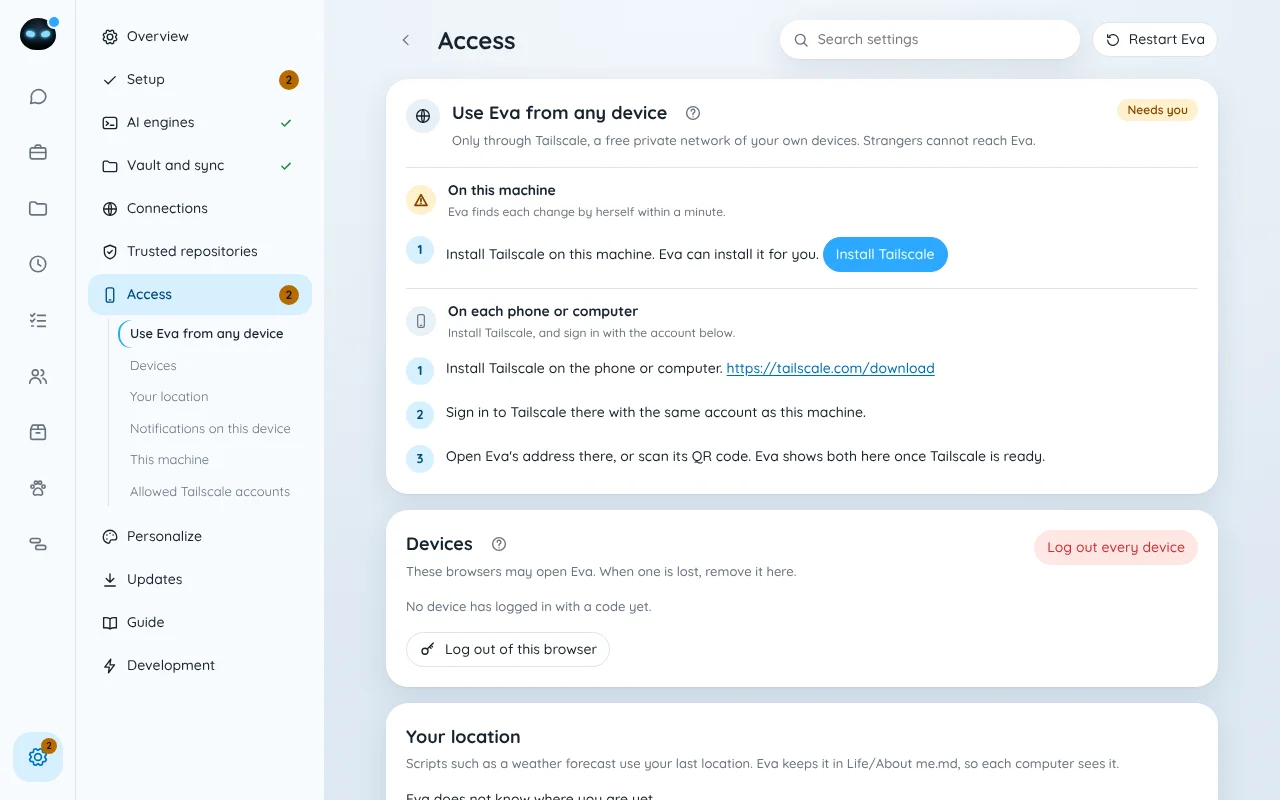
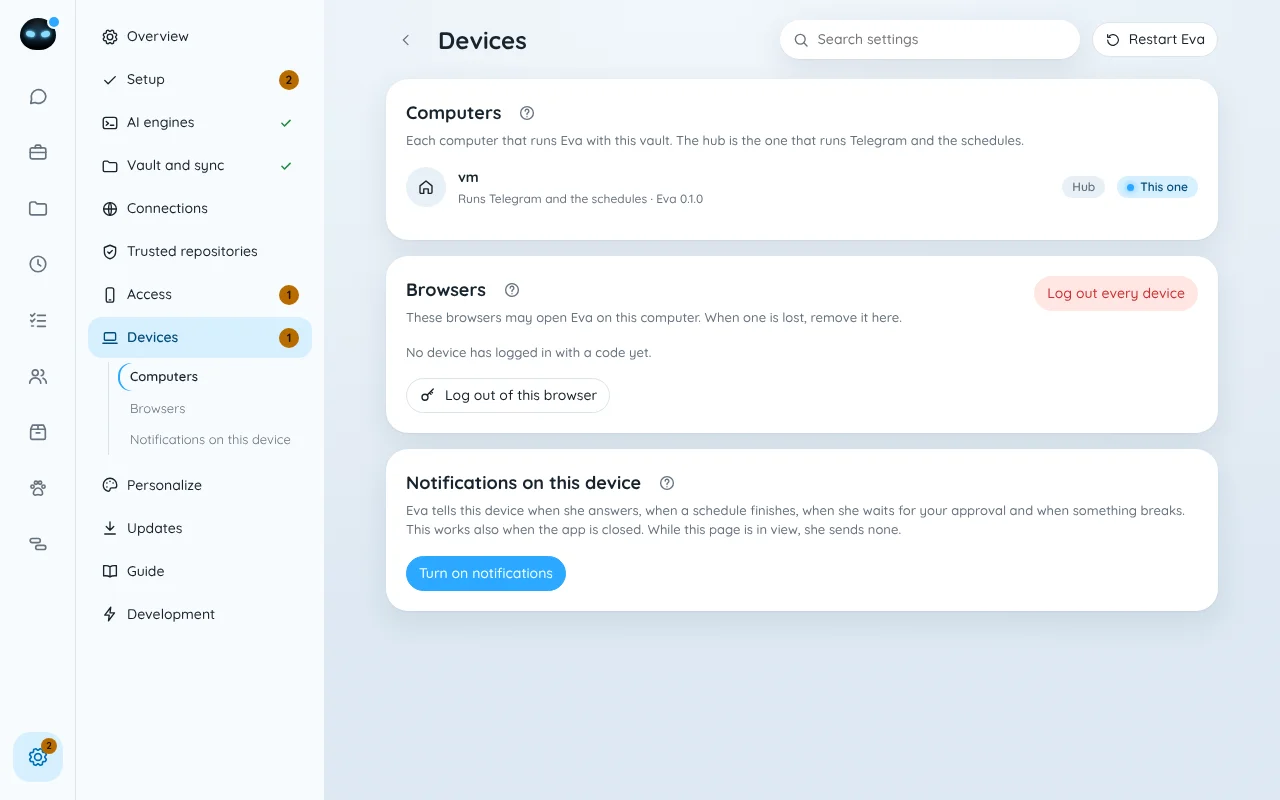
docs(design): capture the Devices page, and fix what This one marks (#925)
Claude-Session: https://claude.ai/code/session_011YsmyfvAnrQ2jecrSfGwHM

diff --git a/scripts/capture-design.ts b/scripts/capture-design.ts
@@ -294,7 +294,7 @@ const scenes: readonly Scene[] = [
   { name: "pets", show: (page) => openAddress(page, "#/pets", "Pets") },
   { name: "periods", show: (page) => openAddress(page, "#/periods", "Periods") },
   { name: "settings", show: (page) => openAddress(page, "#/settings", "Settings") },
-  { name: "devices", show: (page) => openAddress(page, "#/settings/access", "Access") },
+  { name: "devices", show: (page) => openAddress(page, "#/settings/devices", "Devices") },
   {
     name: "problems",
     show: async (page, _view, demo) => {

diff --git a/docs/guide/reference.md b/docs/guide/reference.md
@@ -127,7 +127,7 @@ Eva works on several computers with one vault, with no role to set.
 
 - **The hub** is the one computer that runs the Telegram bot and the reminders. The first computer that starts with the vault becomes the hub. The vault names it in `.eva/hub.json`.
 - **A satellite** is any other computer with the vault. It keeps the vault up to date and serves its own terminal and web page, but stays quiet in Telegram.
-- **See every computer** in **Settings > Devices > Computers**. The list comes from the vault, so each computer shows the same one. It marks the hub and the computer that you use now.
+- **See every computer** in **Settings > Devices > Computers**. The list comes from the vault, so each computer shows the same one. It marks the hub, and the computer whose page you see.
 - **A computer with an older Eva** than the vault does not change the vault's settings, reminders or hub until you update it. Its web page shows a warning, and the hub sends it to Telegram.
 - **Problems on a satellite** reach Telegram through the hub. Each computer writes its open problems to `.eva/machines/<computer>.json` in the vault, and the hub sends them. A vault sync problem cannot travel this way: it shows on that computer only.
 - **A computer that is off** sends no news. When its report is more than one day old, its alerts say so, such as "laptop last reported 5 days ago".

diff --git a/docs/design/eve/README.md b/docs/design/eve/README.md
@@ -378,14 +378,15 @@ Cases, a case page, People, Objects, Pets and Periods, on a computer and on a ph
 - Optional steps have another icon and colour, so they do not look like errors.
 - Appearance has the colour picker, the theme and the density.
 
-### Remote access and devices
+### Devices
 
 ![Computer](screenshots/devices-computer-light.webp) ![Phone](screenshots/devices-phone-light.webp)
 
-- The new-device notice shows the code in the same type as the login page.
-- "This one" marks the current device.
-- A button copies the Tailscale address.
+- Computers lists each computer with the vault. A "Hub" pill marks the hub.
+- "This one" marks the current computer and the current browser.
 - "Log out every device" stands apart, in red.
+- The new-device notice shows the code in the same type as the login page.
+- On the Access page, a button copies the Tailscale address.
 
 ### When something goes wrong
 
